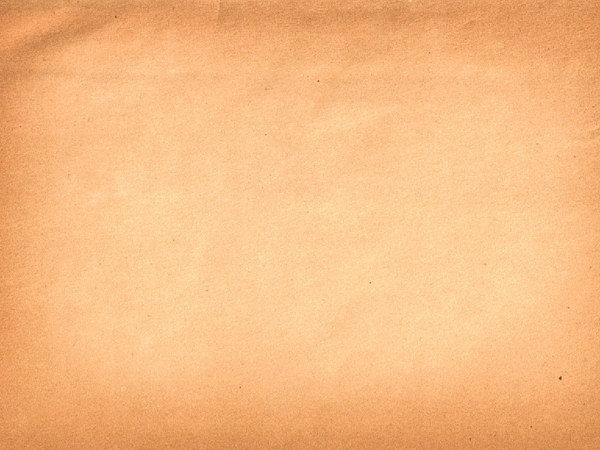
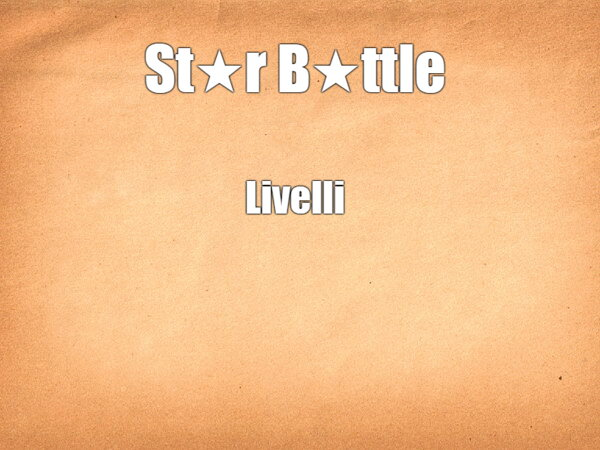
Created menu interface, and game interface on level button click.

Changed region(s): [[0.24, 0.0933, 0.75, 0.2178], [0.39, 0.3733, 0.6, 0.4978]]

diff --git a/src/star_battle/view/MenuPanel.java b/src/star_battle/view/MenuPanel.java
@@ -5,6 +5,8 @@ import star_battle.controller.Controller;
 import javax.imageio.ImageIO;
 import javax.swing.*;
 import java.awt.*;
+import java.awt.event.KeyEvent;
+import java.awt.event.KeyListener;
 import java.io.File;
 import java.io.IOException;
 
@@ -25,6 +27,25 @@ public class MenuPanel extends JPanel {
             e.printStackTrace();
         }
 
+        this.addKeyListener(new KeyListener() {
+            @Override
+            public void keyTyped(KeyEvent e) {
+
+            }
+
+            @Override
+            public void keyPressed(KeyEvent e) {
+
+            }
+
+            @Override
+            public void keyReleased(KeyEvent e) {
+                if(e.getKeyCode() == KeyEvent.VK_ESCAPE) {
+                        System.exit(0);
+                }
+            }
+        });
+
 
         this.setPreferredSize(new Dimension(w, h));
         MenuButtonsPanel buttonsPanel = new MenuButtonsPanel(2, 5, controller);
@@ -33,29 +54,13 @@ public class MenuPanel extends JPanel {
         JPanel titlePanel = new JPanel();
         titlePanel.setOpaque(false);
 
-        JSplitPane mainPanel = new JSplitPane(JSplitPane.VERTICAL_SPLIT, buttonsPanel, titlePanel);
+        JSplitPane mainPanel = new JSplitPane(JSplitPane.VERTICAL_SPLIT, titlePanel, buttonsPanel);
         mainPanel.setOpaque(false);
         mainPanel.setBorder(BorderFactory.createEmptyBorder(50, 50, 50, 50));
-        mainPanel.setDividerLocation(w/2 + 50);
+        mainPanel.setDividerLocation(250);
         mainPanel.setDividerSize(0);
 
         this.add(mainPanel);
-
-       /* MatrixPanel matrixPanel = new MatrixPanel(2, controller);
-        matrixPanel.setPreferredSize(new Dimension(w/2, w/2));
-
-        this.buttonsPanel = new JPanel();
-        buttonsPanel.setOpaque(false);
-        buttonsPanel.add(new Button());
-
-        this.mainPanel = new JSplitPane(JSplitPane.VERTICAL_SPLIT, matrixPanel, buttonsPanel);
-        this.mainPanel.setOpaque(false);
-        this.mainPanel.setBorder(BorderFactory.createEmptyBorder(50, 50, 50, 50));
-        this.mainPanel.setDividerLocation(width/2 + 50);
-        this.mainPanel.setDividerSize(0);
-
-        this.add(mainPanel);*/
-
 
         setFocusable(true);
         setVisible(true);

diff --git a/src/star_battle/view/LevelButton.java b/src/star_battle/view/LevelButton.java
@@ -2,12 +2,17 @@ package star_battle.view;
 
 import javax.swing.*;
 import java.awt.*;
+import java.awt.event.ActionEvent;
+import java.awt.event.ActionListener;
 import java.awt.event.MouseEvent;
 import java.awt.event.MouseListener;
 
 public class LevelButton extends JLabel implements MouseListener {
 
-    public LevelButton(){
+    private int level;
+
+    public LevelButton(int level){
+        this.level =  level;
         setBackground(Color.WHITE);
         setOpaque(true);
 
@@ -22,21 +27,37 @@ public class LevelButton extends JLabel implements MouseListener {
         return new Dimension(50,50);
     }
 
-
     @Override
-    public void mouseClicked(MouseEvent e) {}
+    public void mouseClicked(MouseEvent e) {
 
-    @Override
-    public void mousePressed(MouseEvent e) {
-        //TODO aprire il gioco
     }
 
     @Override
-    public void mouseReleased(MouseEvent e) {}
+    public void mousePressed(MouseEvent e) {
+        MenuButtonsPanel p = (MenuButtonsPanel) this.getParent();
+        p.createLevel(this.level);
+    }
 
     @Override
-    public void mouseEntered(MouseEvent e) {}
+    public void mouseReleased(MouseEvent e) {
+
+    }
 
     @Override
-    public void mouseExited(MouseEvent e) {}
+    public void mouseEntered(MouseEvent e) {
+
+    }
+
+    @Override
+    public void mouseExited(MouseEvent e) {
+
+    }
+
+    public int getLevel() {
+        return level;
+    }
+
+    public void setLevel(int level) {
+        this.level = level;
+    }
 }

diff --git a/src/star_battle/view/GamePanel.java b/src/star_battle/view/GamePanel.java
@@ -5,11 +5,13 @@ import star_battle.controller.Controller;
 import javax.imageio.ImageIO;
 import javax.swing.*;
 import java.awt.*;
+import java.awt.event.KeyEvent;
+import java.awt.event.KeyListener;
 import java.awt.image.BufferedImage;
 import java.io.File;
 import java.io.IOException;
 
-public class GamePanel extends JPanel{
+public class GamePanel extends JPanel implements KeyListener {
 
     private JSplitPane mainPanel = null;
 
@@ -29,6 +31,8 @@ public class GamePanel extends JPanel{
         w = width;
         h = height;
         this.setPreferredSize(new Dimension(width, height));
+
+        this.addKeyListener(this);
 
         this.matrixPanel = new MatrixPanel(dim, controller);
         matrixPanel.setPreferredSize(new Dimension(width/2, width/2));
@@ -53,5 +57,23 @@ public class GamePanel extends JPanel{
         super.paintComponent(g);
         g.drawImage(bgImage, 0, 0, w, h,null);
 
+    }
+
+    @Override
+    public void keyTyped(KeyEvent e) {
+
+    }
+
+    @Override
+    public void keyPressed(KeyEvent e) {
+
+    }
+
+    @Override
+    public void keyReleased(KeyEvent e) {
+        if(e.getKeyCode() == KeyEvent.VK_ESCAPE) {
+            Frame f = (Frame) this.getTopLevelAncestor();
+            f.createMenu();
+        }
     }
 }

diff --git a/src/star_battle/view/Frame.java b/src/star_battle/view/Frame.java
@@ -13,28 +13,39 @@ public class Frame extends JFrame {
 	private int dim = 5;
 
 	private JPanel mainPanel = null;
+	private Controller controller = null;
 
 	public Frame(Controller controller) {
 
+		this.controller = controller;
 		this.dim = controller.getDimension();
 
 		this.setSize(WIDTH, HEIGHT);
 		this.setLayout(new BorderLayout());
-		//this.mainPanel = new GamePanel(controller, WIDTH, HEIGHT);
-		this.mainPanel = new MenuPanel(controller, WIDTH, HEIGHT);
-		this.add(mainPanel, BorderLayout.CENTER);
+		this.createMenu();
 		this.setLocationRelativeTo(null);
 		this.setVisible(true);
 		this.setResizable(false);
 		this.setDefaultCloseOperation(JFrame.EXIT_ON_CLOSE);
 	}
 
-	public void setAcutalPane(JPanel p) {
+	public void createGame(int level) {
+
 		if(mainPanel != null) {
 			this.remove(mainPanel);
 		}
-		mainPanel = p;
-		this.add(mainPanel);
+		mainPanel = new GamePanel(this.controller, WIDTH, HEIGHT);
+		this.add(mainPanel, BorderLayout.CENTER);
+		mainPanel.requestFocus();
+		revalidate();
+	}
+
+	public void createMenu(){
+		if(mainPanel != null) {
+			this.remove(mainPanel);
+		}
+		this.mainPanel = new MenuPanel(controller, WIDTH, HEIGHT);
+		this.add(mainPanel, BorderLayout.CENTER);
 		mainPanel.requestFocus();
 		revalidate();
 	}

diff --git a/src/star_battle/view/MenuButtonsPanel.java b/src/star_battle/view/MenuButtonsPanel.java
@@ -17,17 +17,22 @@ public class MenuButtonsPanel extends JPanel {
             generateButtons(rows, columns);
     }
 
-        public void generateButtons(int rows, int columns) {
-            GridBagConstraints gbc = new GridBagConstraints();
-            for (int i = 0; i < rows; i++) {
-                for (int j = 0; j < columns; j++) {
-                    gbc.gridx = j;
-                    gbc.gridy = i;
-                    LevelButton l = new LevelButton();
-                    l.setText(""+(i*5+j+1));
-                    add(l, gbc);
-                }
+    public void generateButtons(int rows, int columns) {
+        GridBagConstraints gbc = new GridBagConstraints();
+        for (int i = 0; i < rows; i++) {
+            for (int j = 0; j < columns; j++) {
+                gbc.gridx = j;
+                gbc.gridy = i;
+                LevelButton l = new LevelButton(i*5+j+1);
+                l.setText(""+(i*5+j+1));
+                add(l, gbc);
             }
-
         }
+
+    }
+
+    public void createLevel(int level){
+        Frame f = (Frame)this.getTopLevelAncestor();
+        f.createGame(level);
+    }
 }
